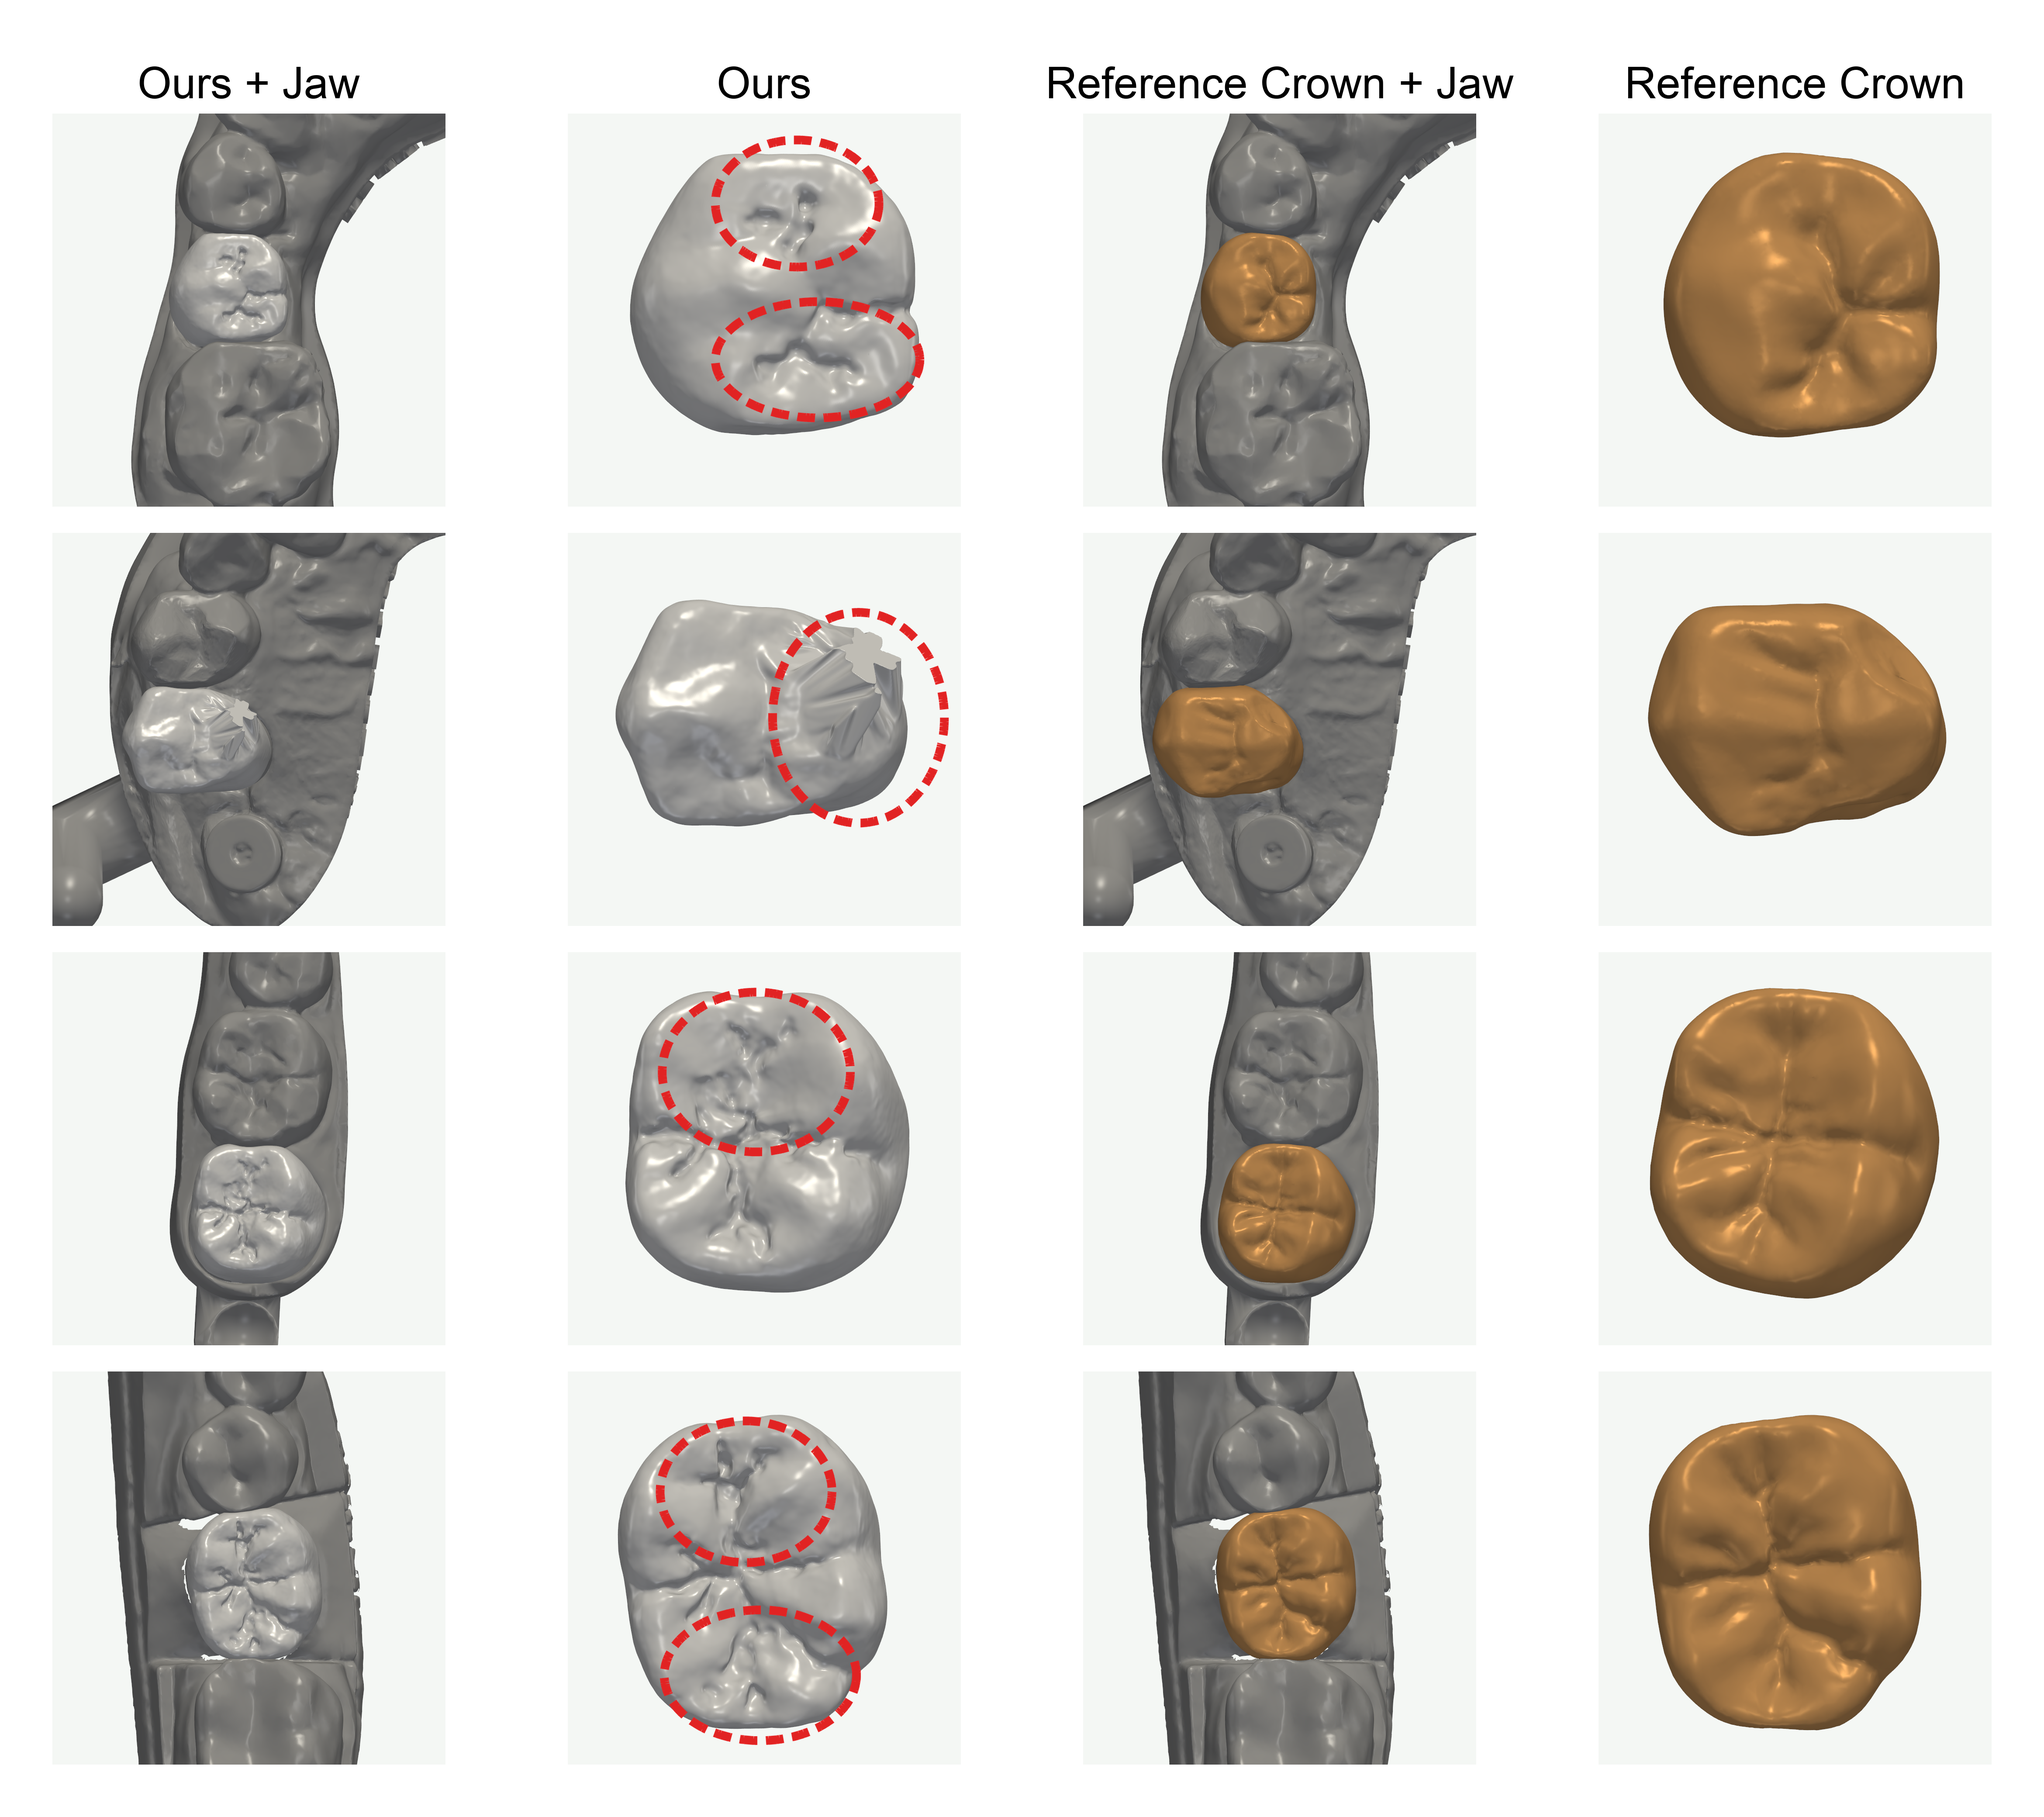
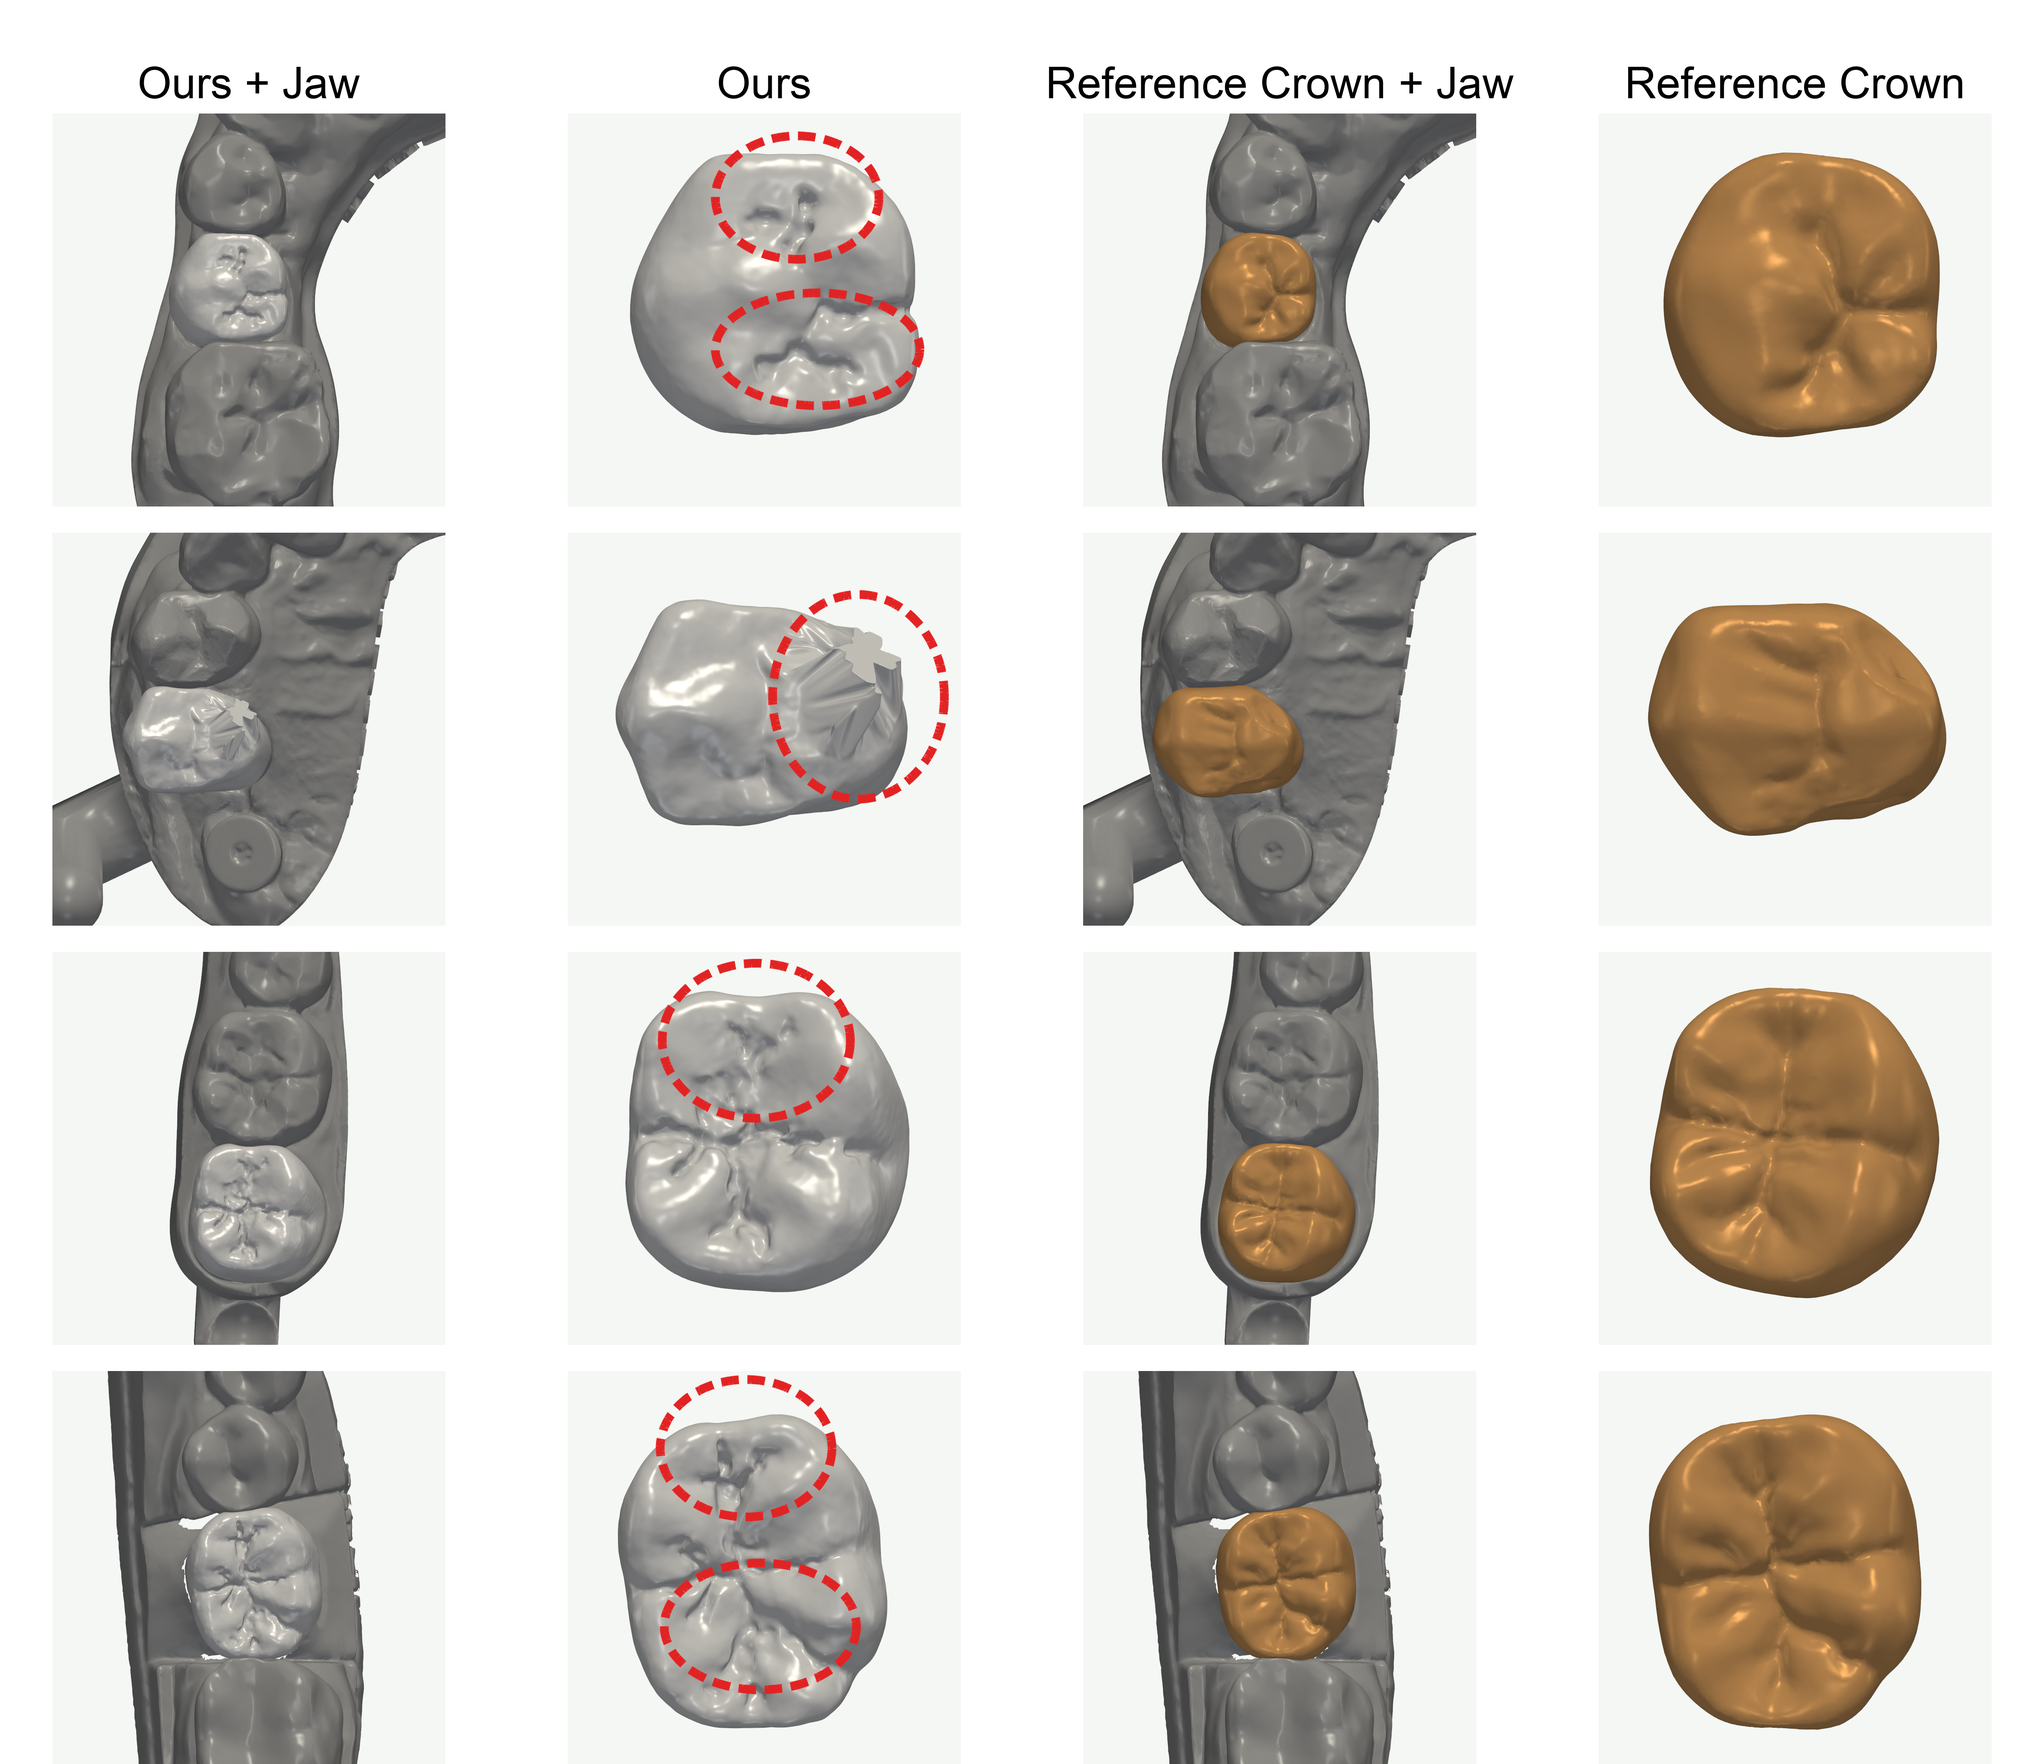
opt images

diff --git a/figures/false_cases/step3_merge_imgs.py b/figures/false_cases/step3_merge_imgs.py
@@ -9,7 +9,7 @@ import argparse
 import math
 from pathlib import Path
 
-from PIL import Image, ImageDraw, ImageFont, ImageOps
+from PIL import Image, ImageChops, ImageDraw, ImageFont, ImageOps
 from matplotlib import colormaps
 
 
@@ -198,6 +198,11 @@ def main() -> None:
             draw.line((bar_x + args.colorbar_thickness, tick_y, bar_x + args.colorbar_thickness + 6, tick_y), fill="black")
             draw.text((bar_x + args.colorbar_thickness + 12, tick_y), label,
                       font=colorbar_font, fill="black", anchor="lm")
+    background = Image.new("RGB", canvas.size, args.background)
+    content_bounds = ImageChops.difference(canvas, background).getbbox()
+    if content_bounds is not None and content_bounds[3] < canvas.height:
+        canvas = canvas.crop((0, 0, canvas.width, content_bounds[3]))
+
     output = args.output.expanduser()
     if not output.is_absolute():
         output = SCRIPT_DIR / output
